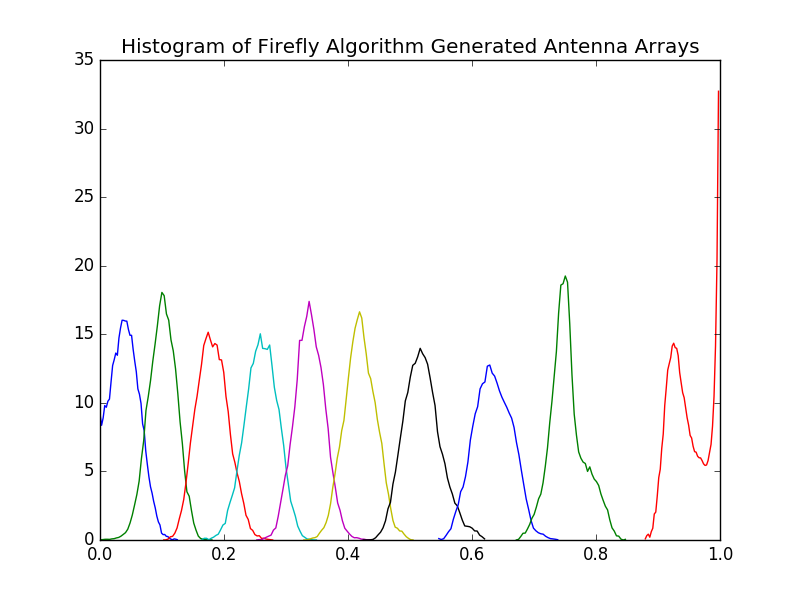
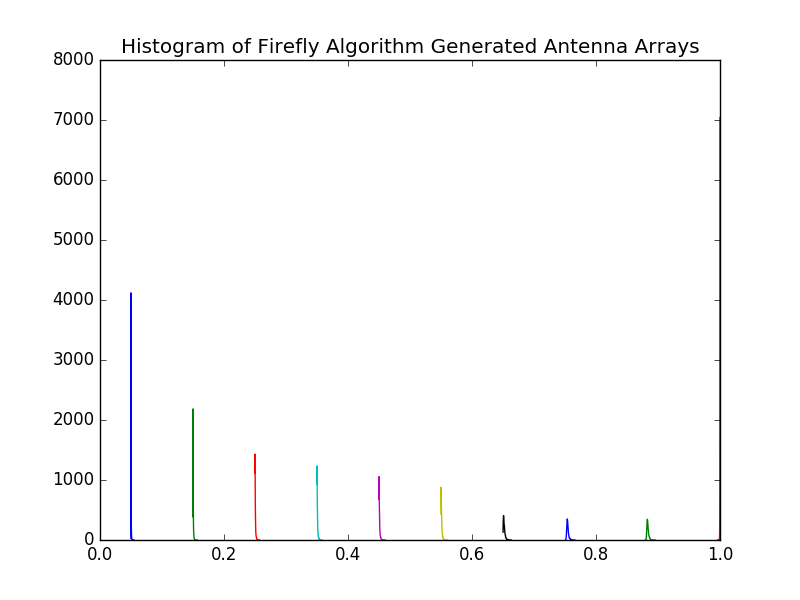
Generated more graphs

diff --git a/ariel/graphs.py b/ariel/graphs.py
@@ -12,41 +12,42 @@ if __name__ == "__main__":
     filename = "data/2018-07-19_09.42/"
     filename = "data/2018-07-27_16.40/"
     filename = "data/2018-08-02_16.32/"
-    dfx = pd.read_csv(filename + "xNew.csv", header=None)
+    filename = "data/2018-08-10_14.45/"
+    dfx = pd.read_csv(filename + "x.csv", header=None)
     # print dfx
 
-    # for i in range (0, 10):
-    #     x = dfx[i]
-    #     count, bins = np.histogram(x, bins=50, density=True)
-    #     plt.plot(bins[:-1], count)
-    # plt.xlim([0,1])
-    # title = "Histogram of Firefly Algorithm Generated Antenna Arrays"
-    # plt.title(title)
-    # plt.savefig("graphs/" + title)
+    for i in range (0, 10):
+        x = dfx[i]
+        count, bins = np.histogram(x, bins=50, density=True)
+        plt.plot(bins[:-1], count)
+    plt.xlim([0,1])
+    title = "Histogram of Firefly Algorithm Generated Antenna Arrays"
+    plt.title(title)
+    plt.savefig("graphs/" + title)
+    plt.show()
+
+    # plotting.scatter_matrix(dfx, alpha=0.2, figsize=(6, 6))
     # plt.show()
 
-    # # plotting.scatter_matrix(dfx, alpha=0.2, figsize=(6, 6))
-    # # plt.show()
+    count, bins = np.histogram(dfx, bins=128, range=[0, 1], density=True)
+    cdf = np.cumsum(count)/128
+    plt.plot(bins[:-1],cdf)
+    plt.show()
 
-    # count, bins = np.histogram(dfx, bins=128, range=[0, 1], density=True)
-    # cdf = np.cumsum(count)/128
-    # plt.plot(bins[:-1],cdf)
-    # plt.show()
+    dfx.hist(color='aqua', alpha=0.5, bins=50)
+    plt.title("Positions Histogram")
+    plt.xlim(0.0,1.0)
+    plt.show()
 
-    # dfx.hist(color='aqua', alpha=0.5, bins=50)
-    # plt.title("Positions Histogram")
-    # plt.xlim(0.0,1.0)
-    # plt.show()
+    print dfx.quantile([0.25, 0.5, 0.75])
+    dfx.boxplot()
+    plt.show()
 
-    # print dfx.quantile([0.25, 0.5, 0.75])
-    # dfx.boxplot()
-    # plt.show()
-
-    # cor = dfx.corr()
-    # print cor
-    # plt.matshow(cor)
-    # plt.colorbar()
-    # plt.show()
+    cor = dfx.corr()
+    print cor
+    plt.matshow(cor)
+    plt.colorbar()
+    plt.show()
 
     dif = dfx.diff(axis=1)
     dif[10] = 1 - dfx[9]
@@ -76,19 +77,19 @@ if __name__ == "__main__":
 
 
     num = len(dif.columns)
-    # # print num
-    # fig, axs = plt.subplots(ncols=num, nrows=num, sharey=True, sharex=True, figsize=(6, 6))
-    # # fig.subplots_adjust(hspace=0.5, left=0.07, right=0.93)
-    # for i in range (0, num):
-    #     for j in range (0, num):
-    #         ax = axs[i][j]
-    #         hb = ax.hexbin(dif.iloc[:,i], dif.iloc[:,j], gridsize=20, cmap='inferno', extent=[0.0, 0.3, 0.0, 0.3])
-    #         ax.axis([0.0, 0.3, 0.0, 0.3])
-    #         ax.axis('off')
-    #         # ax.set_title("Hexagon binning")
-    #         # cb = fig.colorbar(hb, ax=ax)
-    #         # cb.set_label('counts')
-    # plt.show()
+    # print num
+    fig, axs = plt.subplots(ncols=num, nrows=num, sharey=True, sharex=True, figsize=(6, 6))
+    # fig.subplots_adjust(hspace=0.5, left=0.07, right=0.93)
+    for i in range (0, num):
+        for j in range (0, num):
+            ax = axs[i][j]
+            hb = ax.hexbin(dif.iloc[:,i], dif.iloc[:,j], gridsize=20, cmap='inferno', extent=[0.0, 0.3, 0.0, 0.3])
+            ax.axis([0.0, 0.3, 0.0, 0.3])
+            ax.axis('off')
+            # ax.set_title("Hexagon binning")
+            # cb = fig.colorbar(hb, ax=ax)
+            # cb.set_label('counts')
+    plt.show()
 
 
     num = len(dif.columns)
